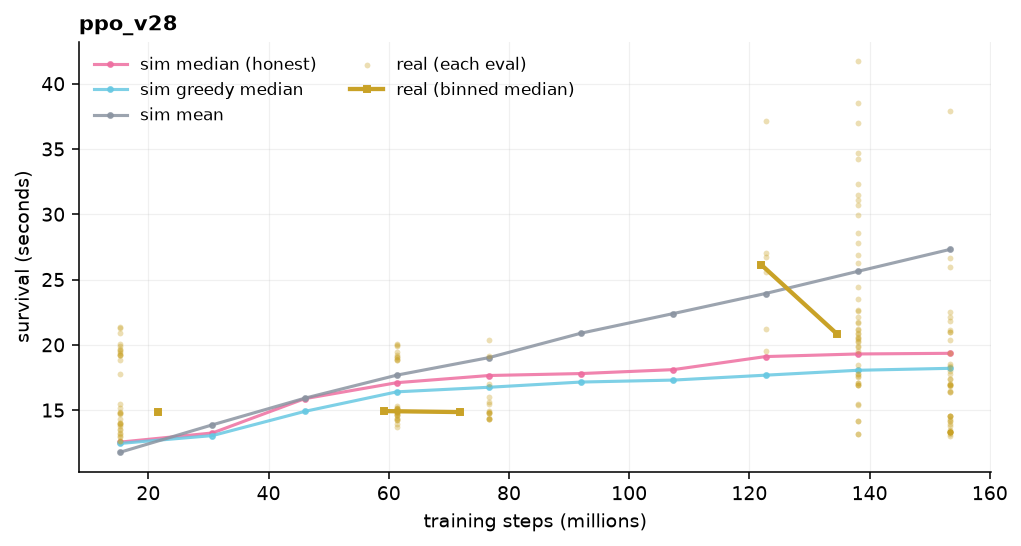
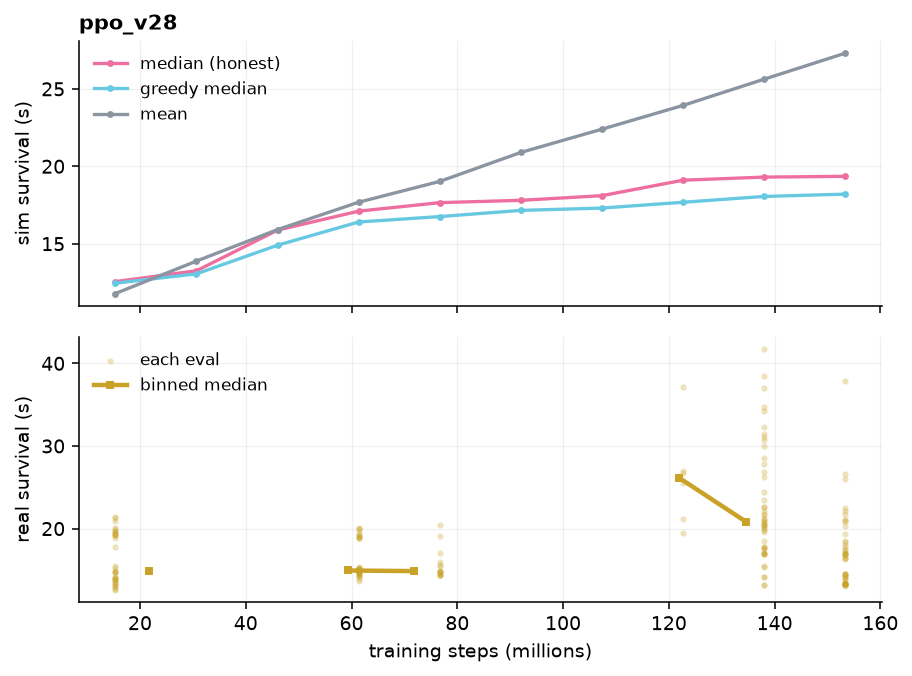
docs: split sim/real into stacked panels; v12 record marked disputed
- plot_run.py: real transfer (~200-600s) was flattening the sim lines (~20-40s)
  on a shared axis. Now stacked subplots, each its own y-scale.
- v12: the "470s / stages 1-3" note conflicts with a recollection of it dying
  before the Stage 2 boss. "470s" exactly matches v12's history.npy sim-survival
  column, and the ~1.63M score points past Chen - so treat v12 as "reached
  Stage 2-3, ~1.63M score" and no more precise. Marked disputed in README,
  sim/README, docs (index, experiment-log, dead-ends).

Claude-Session: https://claude.ai/code/session_01HvK66xWtekmqmw4fENNeN8

diff --git a/tools/plot_run.py b/tools/plot_run.py
@@ -53,33 +53,46 @@ def main():
     import matplotlib.pyplot as plt
 
     x = h[:, sch["x"]] / 1e6
-    fig, ax = plt.subplots(figsize=(7.4, 4.0), dpi=140)
+    rt_path = run / "realtransfer.npy"
+    has_rt = rt_path.exists()
+
+    # sim and real go in stacked panels - real transfer (~200-600s) dwarfs sim
+    # survival (~20-40s) on a shared axis.
+    nrows = 2 if has_rt else 1
+    fig, axes = plt.subplots(nrows, 1, figsize=(7.4, 2.4 * nrows + 0.4),
+                             dpi=140, sharex=True,
+                             gridspec_kw={"hspace": 0.12})
+    axes = np.atleast_1d(axes)
+    ax_sim = axes[0]
+
     colors = ["#ee6ea0", "#67c8e2", "#8b94a1"]
     for i, (col, lbl) in enumerate(sch["series"]):
-        ax.plot(x, h[:, col], color=colors[i % len(colors)], lw=1.6, alpha=.85,
-                label=f"sim {lbl}", marker="o", ms=2.5)
+        ax_sim.plot(x, h[:, col], color=colors[i % len(colors)], lw=1.7,
+                    label=lbl, marker="o", ms=2.5)
+    ax_sim.set_ylabel("sim survival (s)")
+    ax_sim.set_title(name, loc="left", fontsize=11, fontweight="bold")
+    ax_sim.legend(frameon=False, fontsize=8.5)
 
-    # real-game transfer, if it was logged: [wall, step, survival_s, score, flag]
-    rt_path = run / "realtransfer.npy"
-    if rt_path.exists():
-        rt = np.load(rt_path)
+    if has_rt:
+        rt = np.load(rt_path)                 # [wall, step, survival_s, score, flag]
         rs, rv = rt[:, 1] / 1e6, rt[:, 2]
-        ax.scatter(rs, rv, s=9, color="#c9a227", alpha=.35, lw=0,
-                   label="real (each eval)", zorder=2)
-        # binned median
+        ax_real = axes[1]
+        ax_real.scatter(rs, rv, s=10, color="#c9a227", alpha=.30, lw=0,
+                        label="each eval", zorder=2)
         edges = np.linspace(rs.min(), rs.max(), 12)
         mids = 0.5 * (edges[:-1] + edges[1:])
-        med = [np.median(rv[(rs >= a) & (rs < b)]) if ((rs >= a) & (rs < b)).any()
-               else np.nan for a, b in zip(edges[:-1], edges[1:])]
-        ax.plot(mids, med, color="#c9a227", lw=2.2, marker="s", ms=3.5,
-                label="real (binned median)", zorder=3)
+        med = [np.median(rv[(rs >= a) & (rs < b)])
+               if ((rs >= a) & (rs < b)).any() else np.nan
+               for a, b in zip(edges[:-1], edges[1:])]
+        ax_real.plot(mids, med, color="#c9a227", lw=2.3, marker="s", ms=3.5,
+                     label="binned median", zorder=3)
+        ax_real.set_ylabel("real survival (s)")
+        ax_real.legend(frameon=False, fontsize=8.5)
 
-    ax.set_xlabel("training steps (millions)")
-    ax.set_ylabel("survival (seconds)")
-    ax.set_title(name, loc="left", fontsize=11, fontweight="bold")
-    ax.grid(True, alpha=.18, lw=.6)
-    ax.legend(frameon=False, fontsize=8.5, ncol=2)
-    ax.spines[["top", "right"]].set_visible(False)
+    for ax in axes:
+        ax.grid(True, alpha=.18, lw=.6)
+        ax.spines[["top", "right"]].set_visible(False)
+    axes[-1].set_xlabel("training steps (millions)")
     fig.tight_layout()
 
     args.out.mkdir(parents=True, exist_ok=True)

diff --git a/docs/experiment-log.md b/docs/experiment-log.md
@@ -19,24 +19,36 @@ training run: what changed, what the sim curve did, what transferred, verdict.
 
 | Metric | Value | From |
 |---|---|---|
-| Real playthrough (peak) | **~470 s**, stages 1–3 | `ppo_v12` — retired 212-d obs |
+| Best real playthrough | reached Stage 2–3, ~1.63 M score | `ppo_v12` — record disputed, no logged data. "470 s" matches its sim-survival column |
 | Real transfer, current obs | **~225 s** median (stages 1–2) | `ppo_v27` / `ppo_v29` |
 | Recorded-boss transfer | 150–190 s on real Letty | `fight_letty` (but baseline clears Letty 6/6) |
 
-The current 236-d observation has **not** reproduced `ppo_v12`'s reach. Every
+No current-obs run has cleanly beaten `ppo_v12`'s Stage 2 reach. Every
 domain-randomized run plateaus around "clears stage 1, dies in stage 2."
 
 ## The PPO arc
 
 Read top-to-bottom.
 
-### v12 and the 212-d era — peak
+### v12 and the 212-d era — peak (record disputed)
 
-`ppo_v12` reached **~470 s real, stages 1–3** at ~200 M steps on a 212-d
-observation. `ppo_v22` (an early re-run) hit **~368 s at only 82 M steps**. This
-is the bar everything since has failed to clear. The 212-d obs was later widened
-to 236-d (new enemy/item blocks, focus-aware escape) and `ppo_v12` no longer
-loads against the current code.
+`ppo_v12` (212-d obs, auto-aim) is the deepest a policy has reached on the real
+game. There's **no `realtransfer.npy`** for it, and the surviving notes
+disagree:
+
+- An old project note: *"470 s / 1.63 M score, cleared stages 1–3 and into stage
+  4, moving 95 % of decisions."*
+- A later recollection: *died before the Stage 2 boss (Chen).*
+
+The `~1.63 M` score points past the Chen boss (rough PCB pace: ~1 M end of
+Stage 2, ~2 M end of Stage 3), so it likely got further than the second
+account. But **"470 s" exactly matches this run's `history.npy` sim-survival
+column**, so that figure is probably the sim number, not a real duration.
+Treat v12 as "reached Stage 2–3, ~1.63 M score" and nothing more precise.
+
+`ppo_v22` (an early 236-d re-run) hit **~368 s at only 82 M steps**. The 212-d
+obs was later widened to 236-d and `ppo_v12` no longer loads against the current
+code.
 
 ### v23–v25 — trying to teach shooting, the policy games it
 
@@ -95,7 +107,7 @@ underperforms mid-training snapshots, per the v26 lesson.
 | `ppo_v26` | — | stronger enemy/item rewards, fixed sim stage | worse as sim rose | overfit |
 | `ppo_v25` | — | front-only shot + aimed bursts + spam phase, 1000 M | ~159 s | regressed — stopped engaging |
 | `ppo_v22` | — | early 236-d re-run | ~368 s, 82 M steps | strong; preserved |
-| `ppo_v12` | — | 212-d era | **~470 s**, stages 1–3 | best to date; obs retired |
+| `ppo_v12` | — | 212-d era, auto-aim | reached Stage 2–3, ~1.63 M score | disputed; "470 s" = its sim column |
 
 ### ppo_v27
 

diff --git a/README.md b/README.md
@@ -112,9 +112,11 @@ then drop it into the real game.
 - `sim/transfer.py <best.pt> [--watch] [--until-death]` — run a sim-trained
   policy on the real game and report survival.
 
-**Result:** sim-trained policies transfer to the real game — best real Stage 1
-runs: `ppo_v12` **470 s / 1.63 M** (stages 1–3), `ppo_v27`/`ppo_v29` snapshots
-~200–320 s reliably clearing Letty. The sim has been reworked many times
+**Result:** sim-trained policies transfer to the real game — `ppo_v12` reached
+**Stage 2** (~1.63 M score, died before the Chen boss; the often-quoted "470 s"
+is its *sim* survival, not a verified real number), and `ppo_v27`/`ppo_v29`
+snapshots transfer to ~225 s real — clearing Stage 1, into Stage 2. The sim has
+been reworked many times
 (v12→v29): global map added/dropped, real bullet hitboxes, spam phase,
 front-only shot, per-episode domain randomization (v27), then AABB collision +
 focus-aware escape (v29). `ppo_v28` was killed — obs-normalization folded 1e4×

diff --git a/sim/README.md b/sim/README.md
@@ -73,10 +73,10 @@ player. **All other fire + enemy waves pause** for the phase + a 3 s cooldown.
 
 ## Status (made-up-danmaku sim)
 
-| run | notes | real Lunatic stage 1 |
+| run | notes | real Lunatic transfer |
 |---|---|---|
-| `ppo_v12` | early layout, obs 212, auto-aim | **470 s / 1.63 M** (stages 1–3) |
-| `ppo_v22` | + spam phase, real hitboxes | **368 s / 1.58 M** @ 82M |
+| `ppo_v12` | early layout, obs 212, auto-aim | reached **Stage 2**, ~1.63 M score, died before Chen (boss). "470 s" = its sim survival, unverified real |
+| `ppo_v22` | + spam phase, real hitboxes | **~368 s** @ 82M steps |
 | `ppo_v25` | front-only shot, weak rewards | 159 s — stopped engaging |
 | `ppo_v26` | rebalanced rewards | overfit the fixed stage; transfer got *worse* as sim rose |
 | `ppo_v27` | **per-episode domain randomization** (emitter re-roll, motion profiles, sparse windows) | ~200–320 s, clears Letty; peaked ~30–75 M then mild drift |

diff --git a/docs/dead-ends.md b/docs/dead-ends.md
@@ -66,10 +66,11 @@ there was nothing left to fine-tune.
 
 ## The base-policy regression — *open*
 
-`ppo_v12` reached ~470 s (stages 1–3) on a 212-d observation that no longer
-exists. The current 236-d runs (v27, v29) transfer to **~225 s median** — they
-clear Stage 1 and die somewhere in Stage 2. A regression from v12, though not
-the "dies at Stage 1 boss" I first reported (that was `best.pt`, which the
+`ppo_v12` reached Stage 2–3 (~1.63 M score) on a 212-d obs that no longer exists
+— though [the exact reach is disputed](experiment-log.md#v12-and-the-212-d-era-peak-record-disputed).
+The current 236-d runs (v27, v29) transfer to **~225 s median** — they clear
+Stage 1 and die somewhere in Stage 2. A regression from v12, though not the
+"dies at Stage 1 boss" I first reported (that was `best.pt`, which the
 [v26 lesson](#v26-stronger-engagement-rewards-overfits) says is the wrong
 checkpoint to pick).
 

diff --git a/docs/index.md b/docs/index.md
@@ -45,7 +45,7 @@ touch-up tool, not the main training vehicle.
 
 | Milestone | Result | Notes |
 |---|---|---|
-| Best real playthrough (peak) | `~470 s, stages 1–3` | `ppo_v12` — on a now-retired 212-d observation |
+| Best real playthrough (peak) | Stage 2–3, ~1.63M score | `ppo_v12` (retired 212-d obs); record disputed, "470 s" matches its sim column |
 | Current-obs transfer | `~225 s median` | `ppo_v27` / `ppo_v29` — clears Stage 1, dies in Stage 2 |
 | Recorded-boss transfer | `150–190 s` | `fight_letty`, trained only on replayed Letty, dodges real Letty |
 
